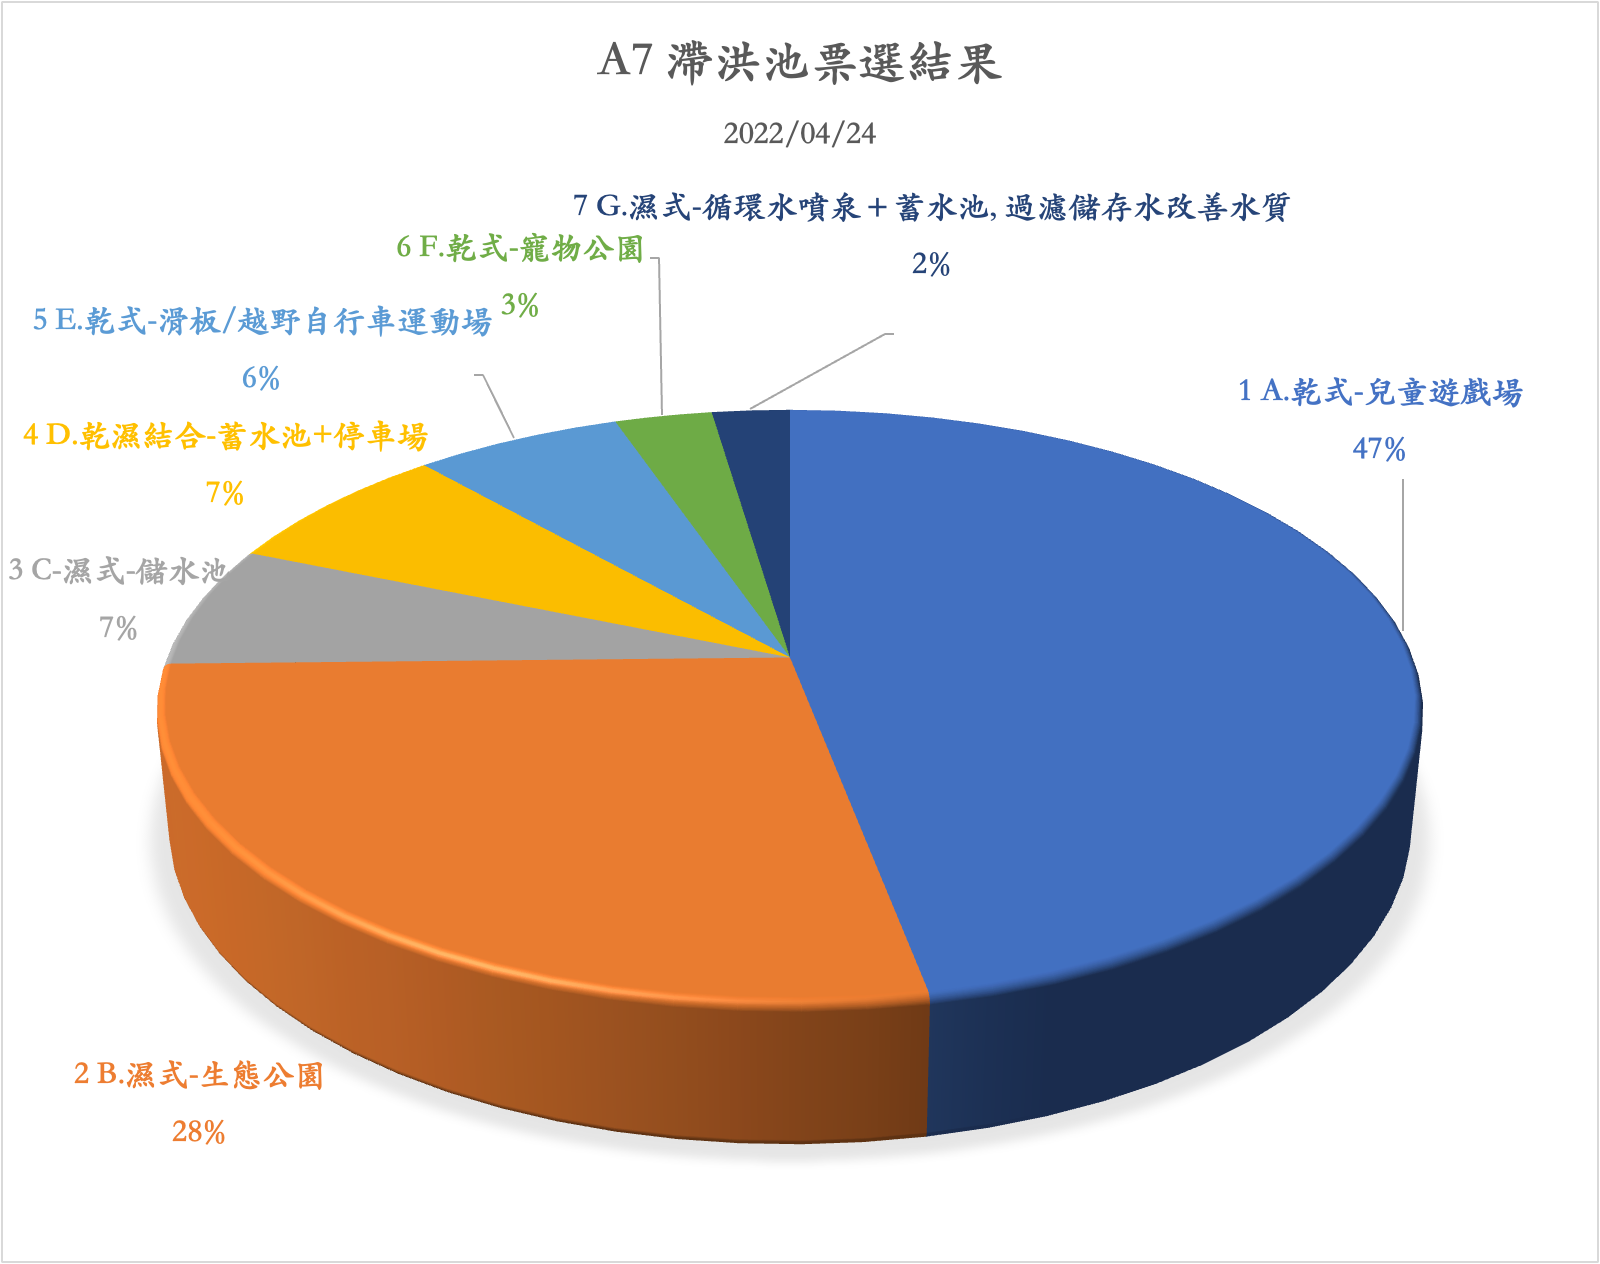
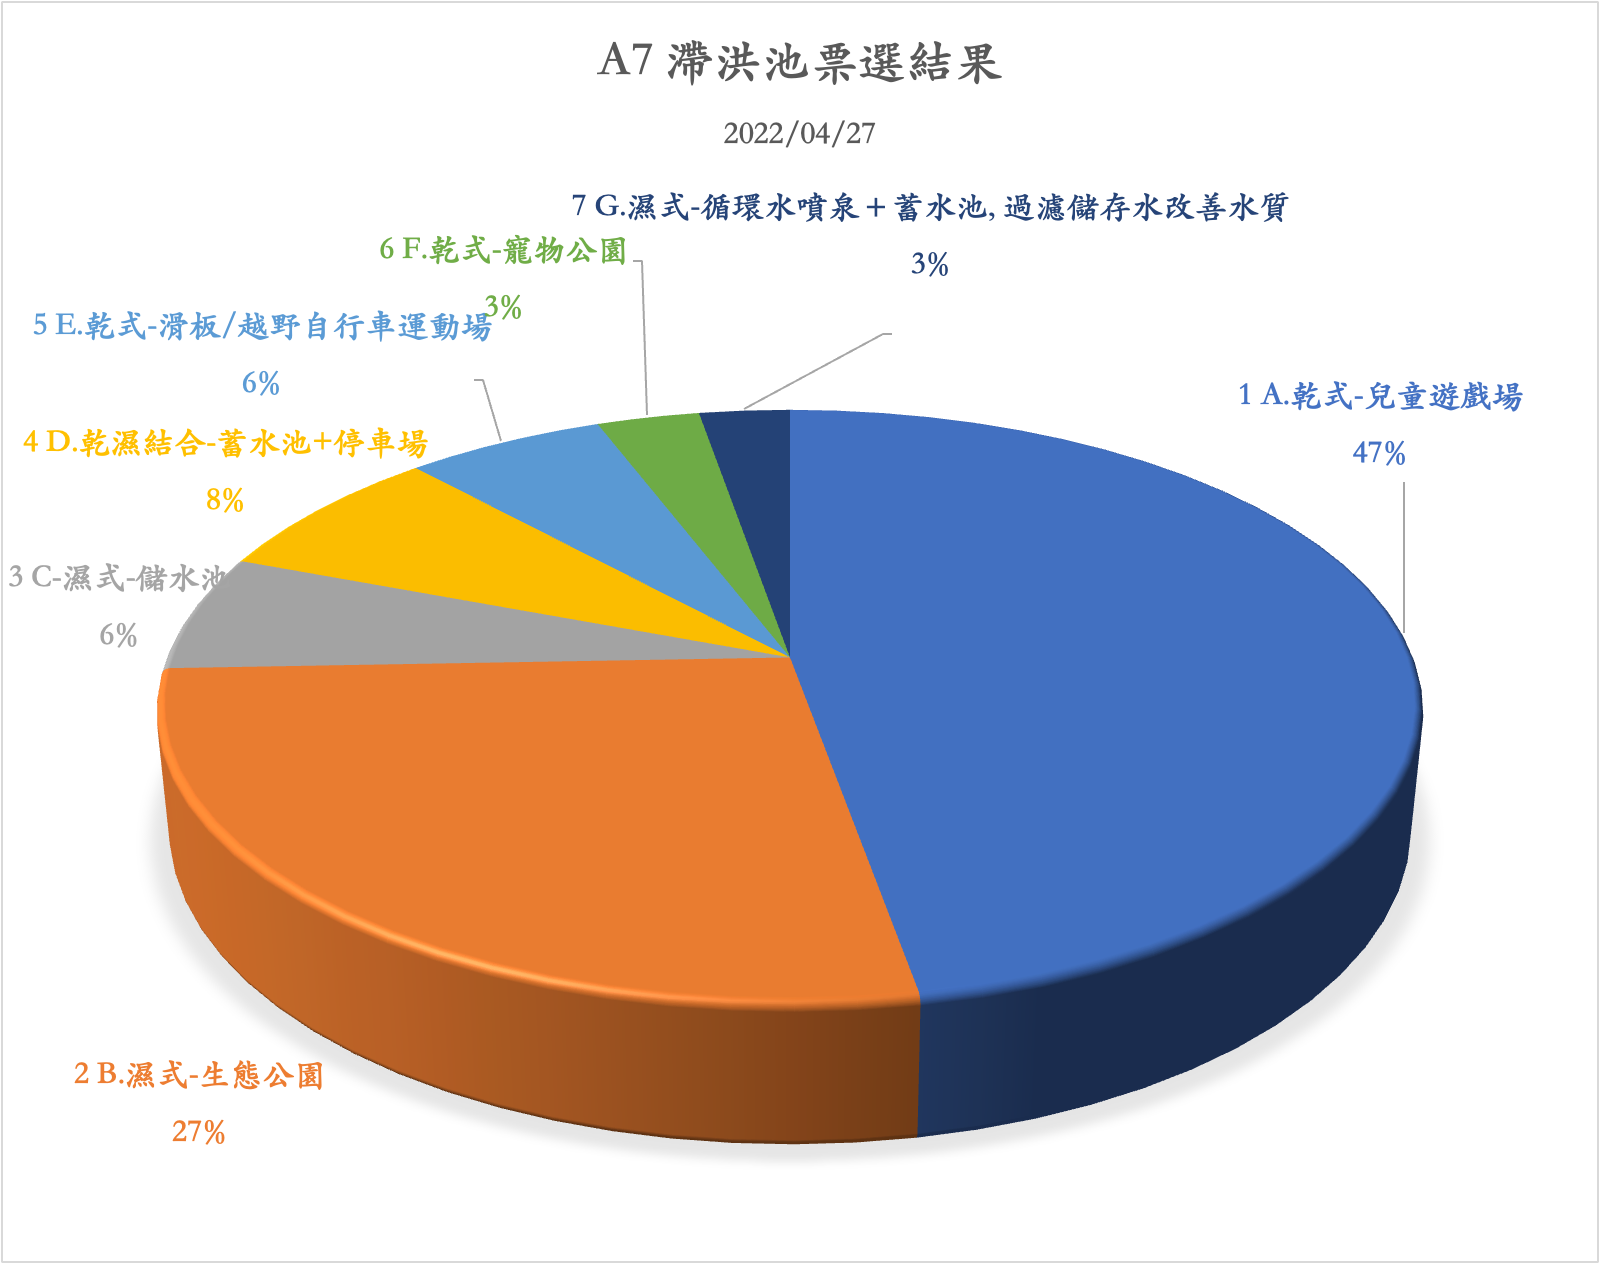
update

diff --git a/A7XLK-21-CommunityService.html b/A7XLK-21-CommunityService.html
@@ -531,15 +531,15 @@
 								<div class="col-md-6">
 									<h5>對滯洪池形式 意見調查統計</h5>
 									居民期望市府能請專家做全區域的整合設計。能夠兼顧多功能滯洪池設計包含同時有蓄水, 公園綠化及兒童遊戲場所等功能。規劃過程應該讓居民深度參與並廣泛徵詢居民意見。<br>
-									2022/04/24日票選統計
+									2022/04/27日票選統計
 									<ul>
-										<li>A.乾式-兒童遊戲場 241票</li>
-										<li>B.濕式-生態公園 142票</li>
-										<li>C-濕式-儲水池 34票</li>
-										<li>D.乾濕結合-蓄水池+停車場 37票</li>
-										<li>E.乾式-滑板/越野自行車運動場 32票</li>
-										<li>F.乾式-寵物公園 15票</li>
-										<li>G.濕式-循環水噴泉＋蓄水池, 過濾儲存水改善水質 12票 </li>
+										<li>A.乾式-兒童遊戲場 260票</li>
+										<li>B.濕式-生態公園 150票</li>
+										<li>C-濕式-儲水池 35票</li>
+										<li>D.乾濕結合-蓄水池+停車場 41票</li>
+										<li>E.乾式-滑板/越野自行車運動場 33票</li>
+										<li>F.乾式-寵物公園 17票</li>
+										<li>G.濕式-循環水噴泉＋蓄水池, 過濾儲存水改善水質 15票 </li>
 									</ul>
 									<img src="fig/XLK-001-Post/XLK-211-公滯圖-21.png" class="img-fluid" style="width:800px">
 									<br><br>
@@ -666,6 +666,9 @@
 									台中市秋紅谷生態滯洪池 將休閒步道架設在滯洪池之上充分利用都市空間，生態公園＋滯洪池設計成為地方綠色優質環境開發的典範。<br><br>
 									<img src="fig/XLK-001-Post/XLK-211-公滯圖-18.jpeg" class="img-fluid" style="width:800px">
 									高雄十全滯洪池兼停車場 <br><br>
+									<img src="fig/XLK-001-Post/XLK-211-公滯圖-23.jpeg" class="img-fluid" style="width:800px">
+									在滯洪池中設立噴泉, 兼具水循環過濾功能。 減少臭味發生，最好使用太陽能噴泉。 周圍種植特色花卉將成為季節大卡景點！
+									<br><br>
 									<img src="fig/XLK-001-Post/XLK-211-公滯圖-06.jpeg" class="img-fluid" style="width:800px">
 									這是我們現有 蓄水功能為主的滯洪池：常常是漂浮垃圾成了蚊蠅孳生場所，也是兒童可能跌落的高度危險區域。 為何不能是上面的多功能設計？是否有專家能協助區域性整合規劃？
 									<br><br>
